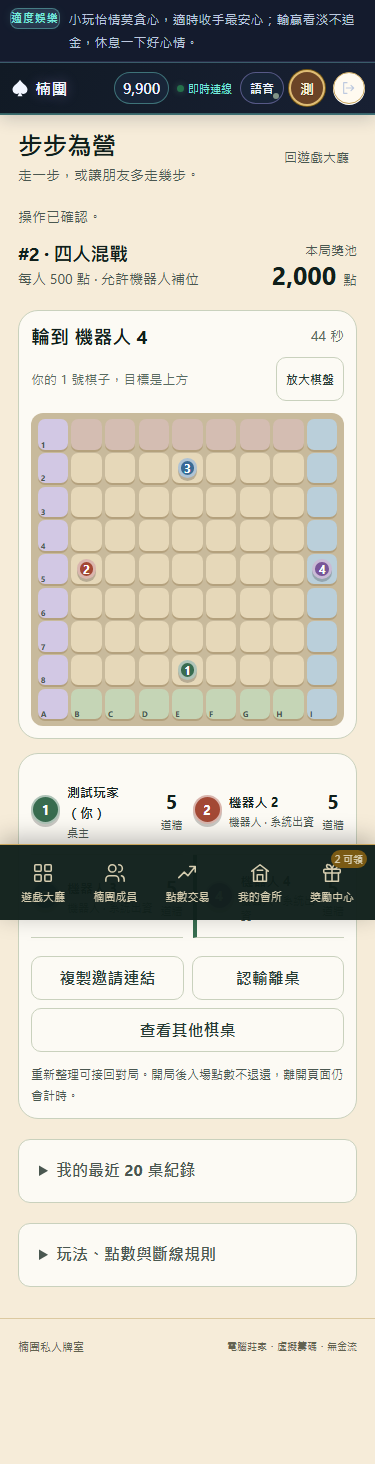
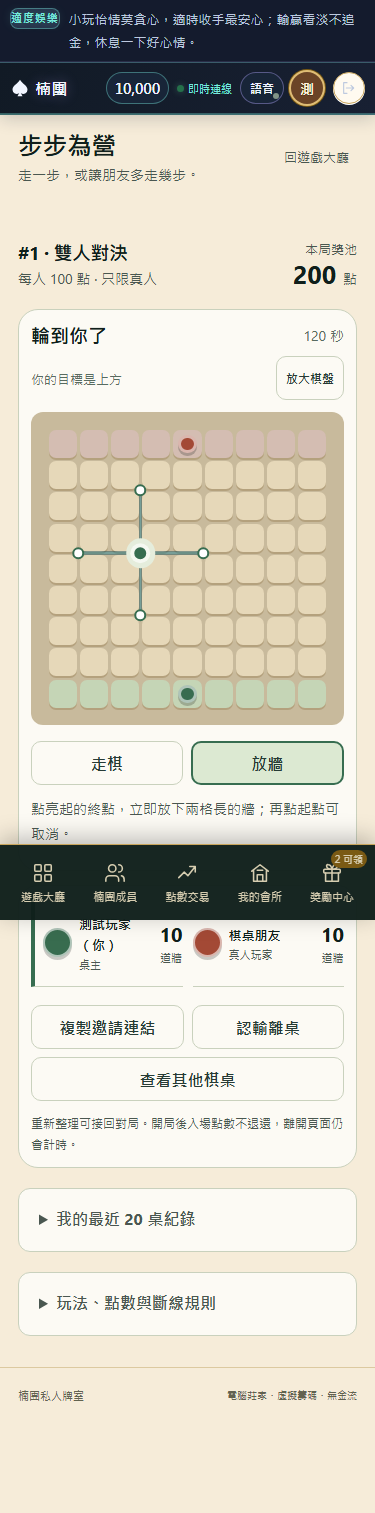
Simplify board controls and retain healthy streams on window focus

Changed region(s): [[0.0, 0.0, 1.0, 0.9529]]

diff --git a/static/blocade.js b/static/blocade.js
@@ -4,40 +4,47 @@ window.ClubBlocade=(()=>{
  const n=v=>Number(v||0).toLocaleString('zh-TW'),esc=v=>String(v??'').replace(/[&<>"']/g,c=>({'&':'&amp;','<':'&lt;','>':'&gt;','"':'&quot;',"'":'&#39;'}[c]));
  const q=s=>host?.querySelector(s),key=uid=>'nantuan-blocade:'+uid,coord=pos=>String.fromCharCode(65+pos[1])+(pos[0]+1);
  const goals=['上方','右方','下方','左方'];
- function unmount(){epoch++;clearInterval(timer);controller?.abort();host=null;ctx=null;state=null;pending=null;busy=false;reading=false;stamp='';viewed=null;selected=null;error='';}
+ function unmount(){epoch++;clearInterval(timer);controller?.abort();host=null;ctx=null;state=null;pending=null;busy=false;reading=false;stamp='';viewed=null;selected=null;mode='move';error='';}
  function view(){return '<section id="blocade-console" class="blocade" aria-label="步步為營"></section>';}
  function mine(){return state?.room?.game?.players.find(p=>p.uid===ctx.user.id);}
  function myTurn(){const r=state?.room;return r?.status==='playing'&&r.game.players[r.game.turn].uid===ctx.user.id&&!mine()?.out;}
  function usable(){return myTurn()&&!state.room.paused&&!pending&&!busy&&Date.now()-lastRead<8000&&Date.now()/1000+offset<state.room.deadline;}
  function status(message){error=message;const e=q('[data-bc-message]');if(e)e.textContent=message;}
- function pawn(p,index){return `<span class="bc-pawn bc-color-${index}" aria-hidden="true">${index+1}</span>`;}
+ function pawn(p,index){return `<span class="bc-pawn bc-color-${index}" aria-hidden="true"></span>`;}
  function drawWall(w,preview=false){const [a,r,c]=w;return `<span class="bc-wall bc-r${r} bc-c${c} ${a==='h'?'bc-horizontal':'bc-vertical'} ${preview?'bc-preview':''}" aria-hidden="true"></span>`;}
  function board(){
   const room=state.room,game=room.game,players=game?.players||room.players.map((p,i)=>({...p,pos:(room.capacity===2?[[8,4],[0,4]]:[[8,4],[4,0],[0,4],[4,8]])[i]}));
   const legal=room.legal_moves||[],moveMode=mode==='move',can=usable();
-  return `<div class="bc-board-scroll"><div class="bc-board" role="group" aria-label="9 乘 9 棋盤，欄 A 到 I，列 1 到 9">
-   ${Array.from({length:81},(_,i)=>{const r=Math.floor(i/9),c=i%9,p=players.find(p=>!p.out&&p.pos[0]===r&&p.pos[1]===c),pi=players.indexOf(p),valid=legal.some(pos=>pos[0]===r&&pos[1]===c),chosen=selected?.kind==='move'&&selected.pos[0]===r&&selected.pos[1]===c;
-    return `<button type="button" class="bc-cell bc-r${r} bc-c${c} ${r===0?'bc-goal-top':''} ${r===8?'bc-goal-bottom':''} ${room.capacity===4&&c===0?'bc-goal-left':''} ${room.capacity===4&&c===8?'bc-goal-right':''} ${valid&&moveMode&&can?'bc-legal':''} ${chosen?'bc-chosen':''}" data-bc-cell="${r},${c}" aria-label="${coord([r,c])}${p?'，'+esc(p.name):''}" ${!can||!moveMode||!valid?'disabled':''}>${p?pawn(p,pi):valid&&moveMode&&can?'<span class="bc-dot"></span>':''}${r===8?`<small>${String.fromCharCode(65+c)}</small>`:c===0?`<small>${r+1}</small>`:''}</button>`;
+  return `<div class="bc-board-scroll"><div class="bc-board" role="group" aria-label="9 乘 9 棋盤">
+   ${Array.from({length:81},(_,i)=>{const r=Math.floor(i/9),c=i%9,p=players.find(p=>!p.out&&p.pos[0]===r&&p.pos[1]===c),pi=players.indexOf(p),valid=legal.some(pos=>pos[0]===r&&pos[1]===c);
+    return `<button type="button" class="bc-cell bc-r${r} bc-c${c} ${r===0?'bc-goal-top':''} ${r===8?'bc-goal-bottom':''} ${room.capacity===4&&c===0?'bc-goal-left':''} ${room.capacity===4&&c===8?'bc-goal-right':''} ${valid&&moveMode&&can?'bc-legal':''}" data-bc-cell="${r},${c}" aria-label="${coord([r,c])}${p?'，'+esc(p.name):''}" ${!can||!moveMode||!valid?'disabled':''}>${p?pawn(p,pi):valid&&moveMode&&can?'<span class="bc-dot"></span>':''}</button>`;
    }).join('')}${(game?.walls||[]).map(w=>drawWall(w)).join('')}
-   ${!moveMode&&can?Array.from({length:64},(_,i)=>{const r=Math.floor(i/8),c=i%8;return `<button type="button" class="bc-anchor bc-r${r} bc-c${c}" data-bc-anchor="${r},${c}" aria-label="預覽${mode==='h'?'橫':'直'}牆 ${coord([r,c])}"><span></span></button>`;}).join(''):''}
-   ${selected?.kind==='wall'?drawWall(selected.wall,true):''}
+   ${!moveMode&&can?Array.from({length:100},(_,i)=>{const r=Math.floor(i/10),c=i%10,pos=[r,c],ends=wallEnds(pos),chosen=selected?.kind==='endpoint'&&String(selected.pos)===String(pos),valid=selected?.kind==='endpoint'?!!wallBetween(selected.pos,pos):ends.length>0;return `<button type="button" class="bc-endpoint bc-r${r} bc-c${c} ${chosen?'bc-endpoint-selected':''}" data-bc-endpoint="${pos}" aria-label="牆${selected?'終':'起'}點，第 ${r+1} 橫線、第 ${c+1} 直線${chosen?'，再點取消':''}" ${!valid&&!chosen?'disabled':''}><span></span></button>`;}).join(''):''}
+   ${selected?.kind==='endpoint'?wallEnds(selected.pos).map(pos=>drawWall(wallBetween(selected.pos,pos),true)).join(''):''}
   </div></div>`;
  }
- function rules(){return `<details class="bc-rules"><summary>玩法、點數與斷線規則</summary><p>每回合走一步或放一道牆，先到對面任一格獲勝。雙人各 10 道牆，四人各 5 道牆；牆不能交叉、重疊或完全堵死任何人的路。遇到相鄰棋子可跳過，後方被阻擋時可側跳；所有落點暫被棋子佔住時可跳過回合。</p><p>加入即保留同額入場籌碼。冠軍拿整桌獎池，不抽水、自動入帳。機器人由系統出同額籌碼，贏得的獎池由系統收回；機器人不讀取你的預覽操作，稱號不改變棋局與獎金。</p><p>開局前退桌全退；開局後退出即認輸，棋子移除、已放的牆保留。每回合 45 秒，逾時先代走最短路，連續 3 次逾時視為認輸。重新整理可接回同一局；伺服器部署時暫停計時。等候 15 分鐘取消退費；對局達 30 分鐘或 400 回合則和局全退。僅限站內虛擬點數，無現金兌換。</p></details>`;}
+ // Endpoints are intersections on a 0..9 lattice; a wall spans exactly two cells.
+ function wallBetween(a,b){
+  if(a[0]===b[0]&&a[0]>0&&a[0]<9&&Math.abs(a[1]-b[1])===2)return ['h',a[0]-1,Math.min(a[1],b[1])];
+  if(a[1]===b[1]&&a[1]>0&&a[1]<9&&Math.abs(a[0]-b[0])===2)return ['v',Math.min(a[0],b[0]),a[1]-1];
+  return null;
+ }
+ function wallEnds(a){return [[a[0]-2,a[1]],[a[0]+2,a[1]],[a[0],a[1]-2],[a[0],a[1]+2]].filter(b=>b.every(v=>v>=0&&v<=9)&&wallBetween(a,b));}
+ function rules(){return `<details class="bc-rules"><summary>玩法、點數與斷線規則</summary><p>每回合走一步或放一道兩格長的牆，先到對面任一格獲勝。雙人各 10 道牆，四人各 5 道牆；牆不能交叉、重疊或完全堵死任何人的路。遇到相鄰棋子可跳過，後方被阻擋時可側跳；所有落點暫被棋子佔住時可跳過回合。</p><p>加入即保留同額入場籌碼。冠軍拿整桌獎池，不抽水、自動入帳。機器人由系統出同額籌碼，贏得的獎池由系統收回；機器人不讀取你的預覽操作，稱號不改變棋局與獎金。</p><p>開局前退桌全退；開局後退出即認輸，棋子移除、已放的牆保留。每回合 45 秒，逾時先代走最短路，連續 3 次逾時視為認輸。重新整理可接回同一局；伺服器部署時暫停計時。等候 15 分鐘取消退費；對局達 30 分鐘或 400 回合則和局全退。僅限站內虛擬點數，無現金兌換。</p></details>`;}
  function lobby(){return `<div class="bc-lobby"><section class="bc-create"><h2>開一桌，等朋友。</h2><p>走出自己的路，也給朋友一點阻礙。</p><form data-bc-create><fieldset><legend>這桌幾個人？</legend><label><input type="radio" name="capacity" value="2" checked>雙人對決</label><label><input type="radio" name="capacity" value="4">四人混戰</label></fieldset><label class="bc-field">每人入場點數<input name="stake" type="number" min="0" max="10000" step="1" value="100" inputmode="numeric" required aria-describedby="bc-stake-help"></label><div class="bc-presets">${[0,100,500,1000,5000].map(v=>`<button type="button" data-bc-stake="${v}">${v?n(v):'免費'}</button>`).join('')}</div><p id="bc-stake-help">可用 ${n(ctx.wallet.balance)} 點。0–10,000 點，所有人同額加入。</p><label class="bc-bots"><input name="bots" type="checkbox" checked><span>允許機器人補位<small>桌主按開始時補滿空位，系統出同額籌碼。</small></span></label><button class="bc-primary" type="submit" ${busy||pending||state.current_id?'disabled':''}>確認開桌並保留入場點數</button></form></section><section class="bc-tables"><h2>朋友的棋桌</h2><div data-bc-tables>${tables()}</div></section></div>`;}
  function tables(){return state.tables.length?state.tables.map(t=>`<article class="bc-table-row"><div><strong>#${t.id} · ${t.capacity} 人桌</strong><p>${t.players.length}/${t.capacity} 人 · 每人 ${n(t.stake)} 點</p><small>${esc(t.players.map(p=>p.name).join('、'))} · ${t.bots?'可由機器人補位':'只限真人'}</small></div><button type="button" data-bc-open="${t.id}">${t.status==='waiting'?'查看棋桌':'觀戰'}</button></article>`).join(''):'<div class="bc-empty"><svg viewBox="0 0 120 100" aria-hidden="true"><path d="M20 18h80v64H20zM20 50h80M60 18v64" fill="none" stroke="currentColor" stroke-width="4"/><circle cx="40" cy="34" r="9" fill="currentColor"/><path d="M78 57v19" stroke="currentColor" stroke-width="7"/></svg><p>還沒有棋桌</p><small>開桌後朋友就能加入，一個人也能和機器人玩。</small></div>';}
  function roomView(){
   const r=state.room,g=r.game,member=r.players.some(p=>p.uid===ctx.user.id),owner=r.owner===ctx.user.id,ended=['finished','cancelled'].includes(r.status);
   const players=g?.players||r.players;
   return `<div class="bc-room-heading"><div><h2>#${r.id} · ${r.capacity===2?'雙人對決':'四人混戰'}</h2><p>每人 ${n(r.stake)} 點 · ${r.bots?'允許機器人補位':'只限真人'}</p></div><div class="bc-pot"><span>${r.status==='waiting'?'滿桌獎池':'本局獎池'}</span><strong>${n(r.target_pot)} <small>點</small></strong></div></div>
-   <div class="bc-match"><section class="bc-play"><div class="bc-turnline"><strong data-bc-turn></strong><span data-bc-clock></span></div><div class="bc-board-caption">${mine()?`你的 ${g.players.indexOf(mine())+1} 號棋子，目標是${goals[mine().side]}`:'先走到自己對面的一邊獲勝'}<button type="button" data-bc-zoom aria-pressed="false">放大棋盤</button></div><div data-bc-board>${board()}</div><div data-bc-controls>${controls()}</div></section><aside class="bc-sidebar"><div class="bc-player-list">${Array.from({length:r.capacity},(_,i)=>{const p=players[i];return p?`<div class="bc-player ${g?.turn===i&&r.status==='playing'?'bc-playing':''} ${p.out?'bc-out':''}">${pawn(p,i)}<div><strong>${esc(p.name)}${p.uid===ctx.user.id?'（你）':''}</strong><small>${p.bot?'機器人 · 系統出資':r.owner===p.uid?'桌主':'真人玩家'}${p.out?' · 已認輸':''}</small></div><b>${g?p.walls:r.capacity===2?10:5}<small>道牆</small></b></div>`:`<div class="bc-player bc-seat-empty"><span class="bc-empty-seat">${i+1}</span><span>等朋友入座${r.bots?'<small>開始時由機器人補位</small>':''}</span></div>`;}).join('')}</div>
+   <div class="bc-match"><section class="bc-play"><div class="bc-turnline"><strong data-bc-turn></strong><span data-bc-clock></span></div><div class="bc-board-caption">${mine()?`你的目標是${goals[mine().side]}`:'先走到自己對面的一邊獲勝'}<button type="button" data-bc-zoom aria-pressed="false">放大棋盤</button></div><div data-bc-board>${board()}</div><div data-bc-controls>${controls()}</div></section><aside class="bc-sidebar"><div class="bc-player-list">${Array.from({length:r.capacity},(_,i)=>{const p=players[i];return p?`<div class="bc-player ${g?.turn===i&&r.status==='playing'?'bc-playing':''} ${p.out?'bc-out':''}">${pawn(p,i)}<div><strong>${esc(p.name)}${p.uid===ctx.user.id?'（你）':''}</strong><small>${p.bot?'機器人 · 系統出資':r.owner===p.uid?'桌主':'真人玩家'}${p.out?' · 已認輸':''}</small></div><b>${g?p.walls:r.capacity===2?10:5}<small>道牆</small></b></div>`:`<div class="bc-player bc-seat-empty"><span class="bc-empty-seat">${i+1}</span><span>等朋友入座${r.bots?'<small>開始時由機器人補位</small>':''}</span></div>`;}).join('')}</div>
    ${ended?`<div class="bc-result" role="status"><h3>${r.status==='cancelled'?'本局已取消／和局':esc(r.winner.name)+' 獲勝'}</h3><p>${r.status==='cancelled'?esc(r.reason):`${r.winner.bot?'機器人贏得獎池，系統收回':'獎池已自動入帳'} ${n(r.pot)} 點。`}</p><button type="button" data-bc-back>回棋桌大廳</button></div>`:r.status==='waiting'?`<div class="bc-waiting"><h3>${r.players.length} / ${r.capacity} 人已入座</h3><p>${r.bots?'等朋友加入，或由桌主按開始，機器人補滿剩餘空位。':'等真人到齊後，由桌主開始。'}</p>${owner?`<button type="button" class="bc-primary" data-bc-start ${!r.bots&&r.players.length<r.capacity?'disabled':''}>${r.players.length<r.capacity?'補上機器人並開始':'開始對局'}</button>`:!member?`<button type="button" class="bc-primary" data-bc-join ${state.current_id||r.players.length>=r.capacity?'disabled':''}>加入並保留 ${n(r.stake)} 點</button>`:'<p>等桌主開始即可。</p>'}</div>`:''}
    <div class="bc-room-actions"><button type="button" data-bc-share>複製邀請連結</button>${member&&!ended&&!mine()?.out?`<button type="button" data-bc-leave>${r.status==='waiting'?'退桌並全額退還':'認輸離桌'}</button>`:''}${!ended?'<button type="button" data-bc-back>查看其他棋桌</button>':''}</div><p class="bc-small">重新整理可接回對局。開局後入場點數不退還，離開頁面仍會計時。</p></aside></div>`;
  }
  function controls(){
   if(!myTurn())return '';
   if(!state.room.legal_moves.length)return '<p>落點暫時被棋子佔住，可跳過這回合。</p><button type="button" class="bc-primary" data-bc-pass>跳過本回合</button>';
-  return `<div class="bc-modes" role="group" aria-label="回合動作">${[['move','走棋'],['h','橫牆'],['v','直牆']].map(([v,t])=>`<button type="button" data-bc-mode="${v}" aria-pressed="${mode===v}" ${v!=='move'&&!mine().walls?'disabled':''}>${t}</button>`).join('')}</div><p class="bc-help">${mode==='move'?'點亮起的格子預覽，再確認走棋。':'點棋盤交界預覽牆壁，再確認放置。'}</p>${mode==='move'?`<div class="bc-move-options" aria-label="可走的位置">${state.room.legal_moves.map(pos=>`<button type="button" data-bc-move="${pos}" aria-pressed="${selected?.kind==='move'&&String(selected.pos)===String(pos)}">走到 ${coord(pos)}</button>`).join('')}</div>`:`<div class="bc-wall-inputs"><label>起點欄<select data-bc-col>${Array.from({length:8},(_,i)=>`<option value="${i}" ${selected?.wall?.[2]===i?'selected':''}>${String.fromCharCode(65+i)}</option>`).join('')}</select></label><label>起點列<select data-bc-row>${Array.from({length:8},(_,i)=>`<option value="${i}" ${selected?.wall?.[1]===i?'selected':''}>${i+1}</option>`).join('')}</select></label><button type="button" data-bc-preview>預覽牆壁</button></div>`}<button type="button" class="bc-primary bc-confirm" data-bc-confirm ${!selected||!usable()?'disabled':''}>${selected?selected.kind==='move'?`確認走到 ${coord(selected.pos)}`:`確認放${mode==='h'?'橫':'直'}牆 ${coord(selected.wall.slice(1))}`:'先選擇位置'}</button>`;
+  return `<div class="bc-modes" role="group" aria-label="回合動作">${[['move','走棋'],['wall','放牆']].map(([v,t])=>`<button type="button" data-bc-mode="${v}" aria-pressed="${mode===v}" ${v==='wall'&&!mine().walls?'disabled':''}>${t}</button>`).join('')}</div><p class="bc-help">${mode==='move'?'點亮起的格子，立即走棋。':selected?'點亮起的終點，立即放下兩格長的牆；再點起點可取消。':'點一個交界圓點作起點，再點終點放牆。每道牆固定兩格長。'}</p>`;
  }
  function history(){return `<details class="bc-history"><summary>我的最近 20 桌紀錄</summary>${state.history.map(r=>`<button type="button" data-bc-open="${r.id}"><span>#${r.id} · 入場 ${n(r.stake)} 點</span><strong>${r.payout===null?'進行中':`已入帳 ${n(r.payout)} 點`}</strong></button>`).join('')||'<p>完成第一局後，這裡會留下結果。</p>'}</details>`;}
  function paint(force=false){
@@ -45,14 +52,14 @@ window.ClubBlocade=(()=>{
   const r=state.room,sig=JSON.stringify([r?.id,r?.revision,r?null:state.tables,state.current_id,state.history,!!pending]);
   if(force||stamp!==sig){
    const old=host.querySelector('form'),form=old?Object.fromEntries(new FormData(old)):null;
-   const focused=document.activeElement,focusKey=focused?.dataset?.bcCell||focused?.dataset?.bcAnchor;
+   const focused=document.activeElement,focusKey=focused?.dataset?.bcCell||focused?.dataset?.bcEndpoint;
    const zoom=q('.bc-board-scroll')?.classList.contains('bc-zoomed');
    stamp=sig;
    host.innerHTML=`<header class="bc-heading"><div><h1>步步為營</h1><p>走一步，或讓朋友多走幾步。</p></div><a href="#lobby">回遊戲大廳</a></header><div class="bc-feedback"><p data-bc-message role="status">${esc(error)}</p><button type="button" data-bc-retry ${!pending?'hidden':''}>確認原操作結果</button></div>${!r&&state.current_id?'<button type="button" class="bc-return" data-bc-current>返回正在進行的棋桌</button>':''}${r?roomView():lobby()}${history()}${rules()}`;
    if(form){const f=q('form');if(f){f.elements.stake.value=form.stake;f.elements.capacity.value=form.capacity;f.elements.bots.checked=!!form.bots;}}
    if(zoom)q('.bc-board-scroll')?.classList.add('bc-zoomed');
    if(form&&focused?.name){const field=q('form')?.elements[focused.name];(field?.focus?field:field?.value&&q('form')?.querySelector(`[name="${focused.name}"][value="${field.value}"]`))?.focus?.({preventScroll:true});}
-   if(focusKey)host.querySelector(`[data-bc-cell="${focusKey}"],[data-bc-anchor="${focusKey}"]`)?.focus({preventScroll:true});
+   if(focusKey)host.querySelector(`[data-bc-cell="${focusKey}"],[data-bc-endpoint="${focusKey}"]`)?.focus({preventScroll:true});
    bind();
   }
   tick();
@@ -65,16 +72,14 @@ window.ClubBlocade=(()=>{
    clock.textContent=r.paused?'更新後自動繼續':r.status==='playing'?`${left} 秒`:'冠軍全拿 · 不抽水';}
   const stale=state&&Date.now()-lastRead>=8000;
   if(stale&&!error)status('連線更新中，確認最新棋盤後才能操作。');
-  host.querySelectorAll('[data-bc-pass],[data-bc-confirm],[data-bc-cell],[data-bc-anchor],[data-bc-move],[data-bc-mode],[data-bc-preview]').forEach(b=>{
-   if(b.matches('[data-bc-confirm]'))b.disabled=!selected||!usable();
-   else if(!usable())b.disabled=true;
+  host.querySelectorAll('[data-bc-pass],[data-bc-cell],[data-bc-endpoint],[data-bc-mode]').forEach(b=>{
+   if(!usable())b.disabled=true;
   });
   host.querySelectorAll('[data-bc-start],[data-bc-join],[data-bc-leave],form button[type="submit"]').forEach(b=>{
    if(pending||busy||stale)b.disabled=true;
   });
   const retry=q('[data-bc-retry]');if(retry)retry.disabled=busy;
  }
- function selection(action){selected=action;paint(true);}
  async function openRoom(id){controller?.abort();epoch++;reading=false;viewed=id;selected=null;stamp='';await read();}
  function bind(){
   const form=q('form');if(form)form.onsubmit=async e=>{e.preventDefault();const data=new FormData(form),stake=Number(data.get('stake'));if(!Number.isInteger(stake)||stake<0||stake>state.max_stake){status('請填 0–10,000 點整數。');return;}await send('create',{capacity:Number(data.get('capacity')),stake,bots:!!data.get('bots')});};
@@ -88,11 +93,17 @@ window.ClubBlocade=(()=>{
   if(q('[data-bc-share]'))q('[data-bc-share]').onclick=async()=>{const link=location.origin+location.pathname+'#blocade?room='+state.room.id;try{await navigator.clipboard.writeText(link);status('邀請連結已複製，傳給朋友就能加入。');}catch{status('邀請連結：'+link);}};
   if(q('[data-bc-zoom]'))q('[data-bc-zoom]').onclick=e=>{const on=q('.bc-board-scroll').classList.toggle('bc-zoomed');e.currentTarget.setAttribute('aria-pressed',String(on));e.currentTarget.textContent=on?'縮回棋盤':'放大棋盤';};
   host.querySelectorAll('[data-bc-mode]').forEach(b=>b.onclick=()=>{mode=b.dataset.bcMode;selected=null;paint(true);});
-  host.querySelectorAll('[data-bc-cell],[data-bc-move]').forEach(b=>b.onclick=()=>{if(usable())selection({kind:'move',pos:(b.dataset.bcCell||b.dataset.bcMove).split(',').map(Number)});});
-  host.querySelectorAll('[data-bc-anchor]').forEach(b=>b.onclick=()=>selection({kind:'wall',wall:[mode,...b.dataset.bcAnchor.split(',').map(Number)]}));
-  if(q('[data-bc-preview]'))q('[data-bc-preview]').onclick=()=>selection({kind:'wall',wall:[mode,Number(q('[data-bc-row]').value),Number(q('[data-bc-col]').value)]});
+  host.querySelectorAll('[data-bc-cell]').forEach(b=>b.onclick=()=>{if(usable()&&mode==='move')void send('act',{room_id:state.room.id,ply:state.room.game.ply,action:{kind:'move',pos:b.dataset.bcCell.split(',').map(Number)}});});
+  host.querySelectorAll('[data-bc-endpoint]').forEach(b=>b.onclick=()=>{
+   if(!usable()||mode!=='wall')return;
+   const pos=b.dataset.bcEndpoint.split(',').map(Number);
+   if(selected?.kind==='endpoint'){
+    if(String(selected.pos)===String(pos)){selected=null;paint(true);return;}
+    const wall=wallBetween(selected.pos,pos);
+    if(wall)void send('act',{room_id:state.room.id,ply:state.room.game.ply,action:{kind:'wall',wall}});
+   }else{selected={kind:'endpoint',pos};paint(true);}
+  });
   if(q('[data-bc-pass]'))q('[data-bc-pass]').onclick=()=>{if(usable())void send('act',{room_id:state.room.id,ply:state.room.game.ply,action:{kind:'wait'}});};
-  if(q('[data-bc-confirm]'))q('[data-bc-confirm]').onclick=()=>{if(usable()&&selected)void send('act',{room_id:state.room.id,ply:state.room.game.ply,action:selected});};
   q('[data-bc-retry]').onclick=()=>void send();
  }
  async function read(){

diff --git a/static/night.css b/static/night.css
@@ -5600,14 +5600,14 @@ html[data-ui=current] #app .play-reminder :is(.reminder-readable,.reminder-track
 .bc-room-heading{color:var(--ink);}.bc-room-heading h2{font-size:23px;}.bc-room-heading p{font-size:14px;color:var(--muted);}.bc-pot{text-align:right;white-space:nowrap;}.bc-pot span{font-size:13px;color:var(--muted);display:block;}.bc-pot strong{font-size:30px;}.bc-pot small{font-size:14px;font-weight:400;}
 .bc-match{display:grid;grid-template-columns:minmax(300px,1fr) 280px;gap:20px;align-items:start;}.bc-play{padding:20px;}.bc-turnline{display:flex;align-items:center;justify-content:space-between;gap:8px;margin-bottom:8px;}.bc-turnline strong{font-size:19px;overflow-wrap:anywhere;}.bc-turnline span{white-space:nowrap;font-size:14px;font-variant-numeric:tabular-nums;color:var(--bc-muted);}
 .bc-board-caption{display:flex;align-items:center;justify-content:space-between;gap:8px;font-size:13px;color:var(--bc-muted);margin-bottom:12px;}.bc-board-caption button{font-size:12px;padding:5px 9px;flex-shrink:0;}
-.bc-board-scroll{overflow:auto;max-width:100%;border-radius:12px;background:#c8ba9c;padding:5px;}.bc-board{position:relative;aspect-ratio:1;width:100%;min-width:0;isolation:isolate;}.bc-zoomed .bc-board{min-width:610px;}
+.bc-board-scroll{overflow:auto;max-width:100%;border-radius:12px;background:#c8ba9c;padding:16px;}.bc-board{position:relative;aspect-ratio:1;width:100%;min-width:0;isolation:isolate;}.bc-zoomed .bc-board{min-width:610px;}
 .blocade .bc-cell{position:absolute;left:calc(var(--c)*100%/9 + .55%);top:calc(var(--r)*100%/9 + .55%);width:10%;height:10%;min-height:0;padding:0;border:0;background:var(--bc-tile);border-radius:7px;opacity:1;box-shadow:0 2px 0 #b4a17d;display:flex;align-items:center;justify-content:center;}
 .blocade .bc-cell:disabled{cursor:default;opacity:1;}.blocade .bc-cell.bc-goal-top{background:#d4bdb2;}.blocade .bc-cell.bc-goal-bottom{background:#c5d5b6;}.blocade .bc-cell.bc-goal-left{background:#d2c8e4;}.blocade .bc-cell.bc-goal-right{background:#bacfda;}
-.bc-cell small{position:absolute;bottom:0;left:3px;font-size:clamp(8px,1vw,11px);color:#5b5140;}.blocade .bc-cell.bc-legal{background:#f5f6df;box-shadow:inset 0 0 0 2px #729461;}.blocade .bc-cell.bc-chosen{background:#c0dfaa;box-shadow:inset 0 0 0 3px var(--bc-green);}.bc-dot{width:20%;height:20%;border-radius:50%;background:var(--bc-green);}
+.blocade .bc-cell.bc-legal{background:#f5f6df;box-shadow:inset 0 0 0 2px #729461;}.bc-dot{width:20%;height:20%;border-radius:50%;background:var(--bc-green);}
 .bc-pawn{--pawn:#386c4f;border-radius:50%;background:var(--pawn);color:white;width:65%;height:65%;display:inline-flex;align-items:center;justify-content:center;border:3px solid #fff9;font-size:clamp(12px,1.5vw,20px);box-shadow:0 3px 0 #0003;font-weight:750;}.bc-color-1{--pawn:#a34935;}.bc-color-2{--pawn:#396a94;}.bc-color-3{--pawn:#795598;}
-.bc-wall{position:absolute;background:var(--bc-wood);border:1px solid #4c351e;border-radius:5px;z-index:2;pointer-events:none;box-shadow:0 2px 1px #0003;}.bc-horizontal{left:calc(var(--c)*100%/9 + .5%);top:calc((var(--r) + 1)*100%/9 - .6%);width:21.22%;height:1.2%;}.bc-vertical{left:calc((var(--c) + 1)*100%/9 - .6%);top:calc(var(--r)*100%/9 + .5%);width:1.2%;height:21.22%;}.bc-wall.bc-preview{background:#167d92;border-color:#0d4a56;box-shadow:0 0 0 3px #167d9250;z-index:4;}
-.blocade .bc-anchor{position:absolute;left:calc((var(--c) + .5)*100%/9);top:calc((var(--r) + .5)*100%/9);width:11.11%;height:11.11%;min-height:0;border:0;border-radius:0;padding:0;background:transparent;z-index:3;display:flex;justify-content:center;align-items:center;}.bc-anchor span{width:11px;height:11px;border:2px solid #376d50;border-radius:50%;background:#fff9;}.blocade .bc-anchor:hover{background:#376d5020;}
-.bc-modes{display:flex;gap:8px;margin-top:16px;}.bc-modes button{flex:1;}.bc-modes button[aria-pressed=true],.bc-move-options button[aria-pressed=true]{background:#dce9d2;border:2px solid var(--bc-green);}.bc-help{font-size:14px;color:var(--bc-muted);margin:12px 0;}.bc-move-options{display:flex;flex-wrap:wrap;gap:8px;margin-bottom:12px;}.bc-wall-inputs{display:flex;align-items:end;gap:8px;margin-bottom:12px;}.bc-wall-inputs label{display:grid;gap:5px;font-size:13px;flex:1;}.bc-wall-inputs select{height:44px;border:1px solid var(--bc-line);border-radius:8px;background:white;color:var(--bc-ink);padding:8px;min-width:0;width:100%;}
+.bc-wall{position:absolute;background:var(--bc-wood);border:1px solid #4c351e;border-radius:5px;z-index:2;pointer-events:none;box-shadow:0 2px 1px #0003;}.bc-horizontal{left:calc(var(--c)*100%/9 + .5%);top:calc((var(--r) + 1)*100%/9 - .6%);width:21.22%;height:1.2%;}.bc-vertical{left:calc((var(--c) + 1)*100%/9 - .6%);top:calc(var(--r)*100%/9 + .5%);width:1.2%;height:21.22%;}.bc-wall.bc-preview{background:#167d92;border-color:#0d4a56;box-shadow:none;opacity:.45;z-index:4;}
+.blocade .bc-endpoint{position:absolute;left:calc(var(--c)*100%/9);top:calc(var(--r)*100%/9);transform:translate(-50%,-50%);width:10.5%;height:10.5%;min-height:0;border:0;border-radius:50%;padding:0;background:transparent;z-index:5;display:flex;justify-content:center;align-items:center;}.bc-endpoint span{width:12px;height:12px;border:2px solid #376d50;border-radius:50%;background:#fff;}.blocade .bc-endpoint:disabled{visibility:hidden;}.blocade .bc-endpoint-selected span{background:#376d50;box-shadow:0 0 0 4px #fff9;}.blocade .bc-endpoint:hover{background:#376d5020;}
+.bc-modes{display:flex;gap:8px;margin-top:16px;}.bc-modes button{flex:1;}.bc-modes button[aria-pressed=true]{background:#dce9d2;border:2px solid var(--bc-green);}.bc-help{font-size:14px;color:var(--bc-muted);margin:12px 0;}
 .bc-sidebar{padding:18px;}.bc-player{display:flex;gap:10px;align-items:center;padding:14px 0;border-bottom:1px solid var(--bc-line);}.bc-player>.bc-pawn{width:38px;height:38px;font-size:16px;flex-shrink:0;}.bc-player>div{flex:1;min-width:0;overflow-wrap:anywhere;}.bc-player strong{font-size:14px;}.bc-player small{display:block;font-size:12px;color:var(--bc-muted);margin-top:3px;}.bc-player>b{font-size:23px;text-align:center;}.bc-player>b small{font-weight:400;}.bc-playing{border-left:4px solid var(--bc-green);padding-left:8px;}.bc-out{opacity:.6;}.bc-out strong{text-decoration:line-through;}.bc-empty-seat{width:38px;height:38px;display:grid;place-items:center;border:1px dashed #899b85;border-radius:50%;color:var(--bc-muted);}.bc-seat-empty{font-size:14px;}
 .bc-waiting,.bc-result{margin:18px 0;}.bc-waiting h3,.bc-result h3{font-size:18px;}.bc-waiting p,.bc-result p{font-size:14px;margin:10px 0;color:var(--bc-muted);}.bc-result{background:#e5eddc;border-radius:12px;padding:15px;}.bc-room-actions{display:grid;gap:8px;margin-top:18px;}.bc-small{font-size:12px;color:var(--bc-muted);margin-top:12px;}.bc-return{margin-bottom:16px;}
 .bc-rules,.bc-history{margin-top:20px;background:var(--bc-paper);padding:16px 20px;border-radius:12px;border:1px solid var(--bc-line);}.blocade summary{cursor:pointer;min-height:30px;font-weight:650;line-height:1.7;}.bc-rules p{margin-top:12px;font-size:14px;color:var(--bc-muted);max-width:75ch;}.bc-history button{display:flex;justify-content:space-between;gap:16px;width:100%;margin-top:8px;text-align:left;font-size:14px;flex-wrap:wrap;}
@@ -5617,3 +5617,5 @@ html[data-ui=current] #app .play-reminder :is(.reminder-readable,.reminder-track
 @media(prefers-reduced-motion:reduce){.blocade *{transition:none!important;}}
 
 .blocade .bc-r0{--r:0;}.blocade .bc-c0{--c:0;}.blocade .bc-r1{--r:1;}.blocade .bc-c1{--c:1;}.blocade .bc-r2{--r:2;}.blocade .bc-c2{--c:2;}.blocade .bc-r3{--r:3;}.blocade .bc-c3{--c:3;}.blocade .bc-r4{--r:4;}.blocade .bc-c4{--c:4;}.blocade .bc-r5{--r:5;}.blocade .bc-c5{--c:5;}.blocade .bc-r6{--r:6;}.blocade .bc-c6{--c:6;}.blocade .bc-r7{--r:7;}.blocade .bc-c7{--c:7;}.blocade .bc-r8{--r:8;}.blocade .bc-c8{--c:8;}
+
+.blocade .bc-r9{--r:9;}.blocade .bc-c9{--c:9;}

diff --git a/static/index.html b/static/index.html
@@ -4,8 +4,8 @@
   <meta charset="UTF-8"><meta name="viewport" content="width=device-width, initial-scale=1">
   <meta name="theme-color" content="#111a25"><meta name="description" content="楠團私人線上牌室。多人牌桌、銀行投資、每日任務與外觀收藏。即時對局、虛擬籌碼與自動結算。">
   <title>楠團牌室</title>
-  <link rel="icon" href="/favicon.svg" type="image/svg+xml"><link rel="stylesheet" href="/night.css?v=board-20261103">
-  <script src="/ui-art.js?v=clubhouse-ten-20261028" defer></script><script src="/round-presentation.js?v=round-reveal-20261025" defer></script><script src="/clubhouse-scene.js?v=clubhouse-ten-20261028" defer></script><script src="/profile.js?v=flow-20261103" defer></script><script src="/social.js?v=current-ui-20261025" defer></script><script src="/dealer.js?v=current-ui-20261025" defer></script><script src="/game-settings.js?v=friends-economy-20261030" defer></script><script src="/arcade-motion.js?v=current-ui-20261025" defer></script><script src="/bonus.js?v=flow-20261103" defer></script><script src="/club.js?v=readability-20261101" defer></script><script src="/mahjong.js?v=table-ux-20261025" defer></script><script src="/arcade.js?v=gate-full-refund-20261031" defer></script><script src="/transfers.js?v=current-ui-20261025" defer></script><script src="/features.js?v=current-ui-20261025" defer></script><script src="/battle.js?v=motion-budget-20261029" defer></script><script src="/game.js?v=board-20261103" defer></script>
+  <link rel="icon" href="/favicon.svg" type="image/svg+xml"><link rel="stylesheet" href="/night.css?v=board-direct-20261103">
+  <script src="/ui-art.js?v=clubhouse-ten-20261028" defer></script><script src="/round-presentation.js?v=round-reveal-20261025" defer></script><script src="/clubhouse-scene.js?v=clubhouse-ten-20261028" defer></script><script src="/profile.js?v=flow-20261103" defer></script><script src="/social.js?v=current-ui-20261025" defer></script><script src="/dealer.js?v=current-ui-20261025" defer></script><script src="/game-settings.js?v=friends-economy-20261030" defer></script><script src="/arcade-motion.js?v=current-ui-20261025" defer></script><script src="/bonus.js?v=flow-20261103" defer></script><script src="/club.js?v=readability-20261101" defer></script><script src="/mahjong.js?v=table-ux-20261025" defer></script><script src="/arcade.js?v=gate-full-refund-20261031" defer></script><script src="/transfers.js?v=current-ui-20261025" defer></script><script src="/features.js?v=current-ui-20261025" defer></script><script src="/battle.js?v=motion-budget-20261029" defer></script><script src="/game.js?v=board-direct-20261103" defer></script>
 </head>
 <body>
   <div id="app"><div class="loading"><span>♠</span>電腦莊家準備中…</div></div>

diff --git a/static/game.js b/static/game.js
@@ -70,6 +70,9 @@ function markSynchronized(delivery){
 }
 function resumeConnections(reason){
   if(!lobby||credentialsChanging||document.visibilityState!=='visible')return;
+  // Focusing a window/devtools must not tear down a healthy stream.
+  // Hidden/offline handlers already retire their streams; real returns reconnect below.
+  if(live&&liveRoomId===roomId&&live.readyState===1&&liveReady&&Date.now()-lastPush<12000){recoverSnapshot();return;}
   if(live&&liveRoomId===roomId&&Date.now()-lastResumeAt<750){recoverSnapshot();return;}
   lastResumeAt=Date.now();beginRecovery(reason);retirePresenceRead();startLive(true);recoverSnapshot(true);
 }
@@ -225,7 +228,7 @@ function patchApp(html){
   children.forEach((node,index)=>{if(app.childNodes[index])patchNode(app.childNodes[index],node);else app.appendChild(node.cloneNode(true));});
   while(app.childNodes.length>children.length)app.lastChild.remove();
 }
-const pageScripts={"blocade":["/blocade.js?v=board-20261103"],"bank": ["/bank.js?v=overdue-repay-20261030"], "lottery": ["/lottery.js?v=club-polish-20261030"], "market": ["/market-contracts.js?v=tw-rod-20261103", "/market-chart.js?v=mobile-simple-20261028", "/market.js?v=flow-20261103"], "admin": ["/bank.js?v=overdue-repay-20261030", "/market-review.js?v=review-fixes-20261030", "/admin.js?v=review-fixes-20261030"]};
+const pageScripts={"blocade":["/blocade.js?v=board-direct-20261103"],"bank": ["/bank.js?v=overdue-repay-20261030"], "lottery": ["/lottery.js?v=club-polish-20261030"], "market": ["/market-contracts.js?v=tw-rod-20261103", "/market-chart.js?v=mobile-simple-20261028", "/market.js?v=flow-20261103"], "admin": ["/bank.js?v=overdue-repay-20261030", "/market-review.js?v=review-fixes-20261030", "/admin.js?v=review-fixes-20261030"]};
 const pageLoads=new Map(),scriptLoads=new Map();
 function loadPageScript(url){if(scriptLoads.has(url))return scriptLoads.get(url);const job=new Promise((resolve,reject)=>{const script=document.createElement("script");script.src=url;script.onload=resolve;script.onerror=()=>{script.remove();scriptLoads.delete(url);reject(new Error("load"));};document.head.append(script);});scriptLoads.set(url,job);return job;}
 function showPageLoading(page){if(document.querySelector('[data-page-loading]')?.dataset.pageLoading===page)return;patchApp(shell(`<section class="panel" role="status" data-page-loading="${page}"><p>正在開啟頁面…</p></section>`));bindShell();}
